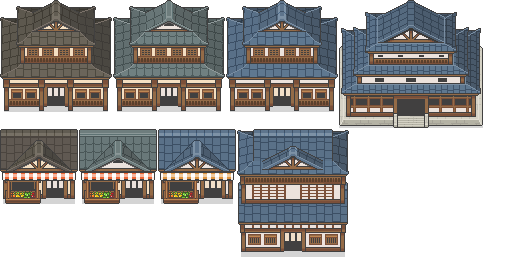
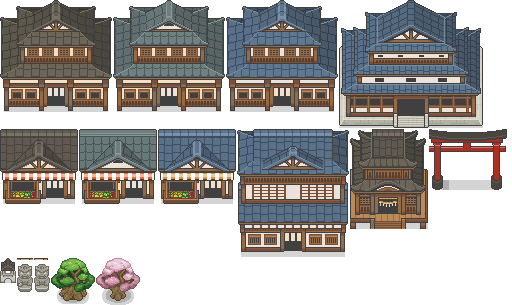
Santuario, torii, faroles de piedra, pinos y cerezos de VectoRaith
El santuario del pack (seis baldosas de ancho) queda solo a la cabeza del camino, con dos komainu a los lados de la subida; sale la casita del patio. Torii, faroles de piedra, pinos japoneses y cerezos usan el arte del pack en todo el pueblo. ?buildings=classic vuelve al santuario chico con la casa y al arte anterior.

diff --git a/src/art/japaneseBuildings.ts b/src/art/japaneseBuildings.ts
@@ -17,6 +17,9 @@ type Facade = (typeof catalog.facades)[number];
 type Rect = { x: number; y: number; w: number; h: number };
 const facadeFor = new Map<string, Facade>();
 for (const f of catalog.facades) for (const id of f.replaces) facadeFor.set(id, f);
+type Piece = { rect: number[]; atlas: { x: number; y: number; w: number; h: number }; replaces: string[]; tiles?: number[] };
+const pieceFor = new Map<string, Piece>();
+for (const p of (catalog as { pieces?: Piece[] }).pieces ?? []) for (const id of p.replaces) pieceFor.set(id, p);
 
 let atlas: CanvasImageSource | null = null;
 export function installJpBuildingsAtlas(source: CanvasImageSource) { atlas = source; }
@@ -30,7 +33,9 @@ function facadeX(f: Facade, W: number): number {
 }
 
 /** The footprint a facade needs: whole tiles wide enough for the nudged facade, and its own height. */
-export function jpFootprint(id: string): { w: number; sw: number; sh: number } | null {
+export function jpFootprint(id: string): { w: number; h?: number; sw: number; sh: number } | null {
+  const p = jpBuildingsWanted() ? pieceFor.get(id) : undefined;
+  if (p?.tiles) return { w: p.tiles[0], h: p.tiles[1], sw: p.tiles[0] * 16, sh: p.rect[3] };
   const f = jpBuildingsWanted() ? facadeFor.get(id) : undefined;
   if (!f) return null;
   let w = Math.ceil(f.rect[2] / 16);
@@ -58,6 +63,14 @@ export function drawJpFacade(c: Ctx, id: string, W: number, H: number): boolean 
 
 /** A shop or the library: the facade with its name plaque. The restaurant is drawn by villageAssets (sign, lanterns). */
 export function jpBuildingObject(id: string, W: number, H: number, label?: string): HTMLCanvasElement | null {
+  const piece = jpBuildingsWanted() ? pieceFor.get(id) : undefined;
+  if (piece && atlas) {
+    // scenery (shrine, torii, lanterns, trees): native pixels, bottom-centred; a bigger piece grows the canvas around it
+    const f = piece.atlas, w = Math.max(W, f.w), h = Math.max(H, f.h);
+    const canvas = makeCanvas(w, h);
+    ctx2d(canvas).drawImage(atlas, f.x, f.y, f.w, f.h, Math.floor((w - f.w) / 2), h - f.h, f.w, f.h);
+    return canvas;
+  }
   if (id.startsWith('bld_restaurant')) return null;
   const canvas = makeCanvas(W, H), c = ctx2d(canvas);
   if (!drawJpFacade(c, id, W, H)) return null;

diff --git a/src/data/villageTerrain.ts b/src/data/villageTerrain.ts
@@ -1,6 +1,7 @@
 /** Authored study 02: a civic square, private plots and streets that connect their actual door positions. */
 import { PROPS } from './props';
 import { exteriorsWanted } from '../art/exteriors';
+import { jpBuildingsWanted } from '../art/japaneseBuildings';
 import { buildingLayout } from '../art/nature';
 import { villageShopLayout } from '../art/village';
 import { restaurantFacadeLayout } from '../art/restaurantFacade';
@@ -177,7 +178,12 @@ export function createVillageTerrain() {
   for (const [x, y] of [[7, 38], [16, 42], [18, 40], [8, 44], [26, 35], [12, 29]]) prop('flowers', x, y);
 
   // Sanctuary, old station and a forest cabin retain their own forecourts.
-  rect(48, 10, 11, 7, 'c'); prop('bld_house', 50, 8); prop('shrine', 54, 13); prop('torii_w6', 51, 17);
+  rect(48, 10, 11, 7, 'c');
+  // With the VectoRaith shrine (six tiles wide) it stands alone at the head of the path, guarded by two komainu;
+  // the classic art keeps the keeper's house beside a small shrine.
+  if (jpBuildingsWanted()) { prop('shrine', 51, 13); prop('komainu_l', 51, 15); prop('komainu_r', 57, 15); }
+  else { prop('bld_house', 50, 8); prop('shrine', 54, 13); }
+  prop('torii_w6', 51, 17);
   for (const [x, y] of [[48, 13], [59, 13], [50, 18], [58, 18]]) prop('stonelantern', x, y);
   for (const [x, y] of [[44, 9], [47, 6], [58, 6], [62, 9], [45, 15], [62, 15]]) prop('sakura', x, y);
   prop('bld_station', 82, 9); prop('block_vines', 90, 16); prop('crate', 94, 11); prop('barrel', 95, 11);

diff --git a/src/data/props.ts b/src/data/props.ts
@@ -265,6 +265,9 @@ export const PROPS: Record<string, PropDef> = {
   block_gate_wood: P('gatepanel', 1, 1, 16, 22, '', '', { variant: 1 }),
   sawhorse: P('sawhorse', 1, 1, 16, 16),
   shrine: P('shrine', 2, 1, 40, 40),
+  // guardian lion-dogs flanking the shrine's approach (VectoRaith, art/japaneseBuildings.ts)
+  komainu_l: P('stonelantern', 1, 1, 16, 34, '#c9c2b4', '', { sombra: 'contacto' }),
+  komainu_r: P('stonelantern', 1, 1, 16, 34, '#c9c2b4', '', { sombra: 'contacto' }),
   sign_shrine: P('signpost', 2, 1, 48, 30, '', '', { solid: false, label: 'SANTUARIO ↑' }),
   sign_harbor: P('signpost', 2, 1, 48, 30, '', '', { solid: false, label: 'PUERTO ↓' }),
   sign_riverside: P('signpost', 2, 1, 52, 30, '', '', { solid: false, label: 'RIBERA →' }),

diff --git a/scripts/build-japanese-buildings.py b/scripts/build-japanese-buildings.py
@@ -57,10 +57,29 @@ add('clothes', 'Ropa de Yuki', ['bld_clothes'], SHOP, GREEN)
 add('store', 'Almacén de Taro', ['bld_store'], SHOP, BLUE)
 add('library', 'Biblioteca', ['bld_library'], TOWNHALL, BLUE)
 
+# Scenery: whole pieces drawn bottom-centred at native size. `tiles` (optional) is the footprint the piece needs.
+pieces = []
+
+
+def piece(key, name, replaces, rect, tiles=None):
+    x, y, w, h = rect
+    left, top, right, bottom = atlas_src.crop((x, y, x + w, y + h)).getbbox()
+    pieces.append(dict(id='jp_' + key, name=name, replaces=replaces, rect=[x + left, y + top, right - left, bottom - top],
+                       **({'tiles': list(tiles)} if tiles else {})))
+
+
+piece('shrine', 'Santuario', ['shrine'], (178, 640, 78, 108), (6, 1))
+piece('torii', 'Torii', ['torii_w6', 'torii_w4'], (178, 576, 78, 64))
+piece('stone_lantern', 'Farol de piedra', ['stonelantern'], (176, 514, 16, 30))
+piece('komainu_l', 'Komainu', ['komainu_l'], (144, 526, 16, 34))
+piece('komainu_r', 'Komainu', ['komainu_r'], (160, 526, 16, 34))
+piece('pine', 'Pino japonés', ['pine'], (8, 640, 48, 47))
+piece('sakura', 'Cerezo', ['sakura'], (720, 1169, 48, 47))
+
 # Shelf packing, one facade per slot.
 W = 512
 x = y = shelf = 0
-for f in facades:
+for f in facades + pieces:
     w, h = f['rect'][2], f['rect'][3]
     if x + w > W:
         x, y, shelf = 0, y + shelf + 1, 0
@@ -68,13 +87,13 @@ for f in facades:
     x += w + 1
     shelf = max(shelf, h)
 atlas = Image.new('RGBA', (W, y + shelf))
-for f in facades:
+for f in facades + pieces:
     sx, sy, sw, sh = f['rect']
     atlas.paste(atlas_src.crop((sx, sy, sx + sw, sy + sh)), (f['atlas']['x'], f['atlas']['y']))
 
 DEST.mkdir(parents=True, exist_ok=True)
 atlas.save(DEST / 'atlas.png', optimize=True)
 (DEST / 'catalog.json').write_text(json.dumps(dict(
-    source='VectoRaith, Traditional Japanese Buildings Tileset (16x16, ATLAS sheet)', facades=facades),
+    source='VectoRaith, Traditional Japanese Buildings Tileset (16x16, ATLAS sheet)', facades=facades, pieces=pieces),
     indent=1, ensure_ascii=False) + '\n', encoding='utf-8')
-print(f'{len(facades)} facades -> {atlas.width}x{atlas.height}')
+print(f'{len(facades)} facades, {len(pieces)} pieces -> {atlas.width}x{atlas.height}')
